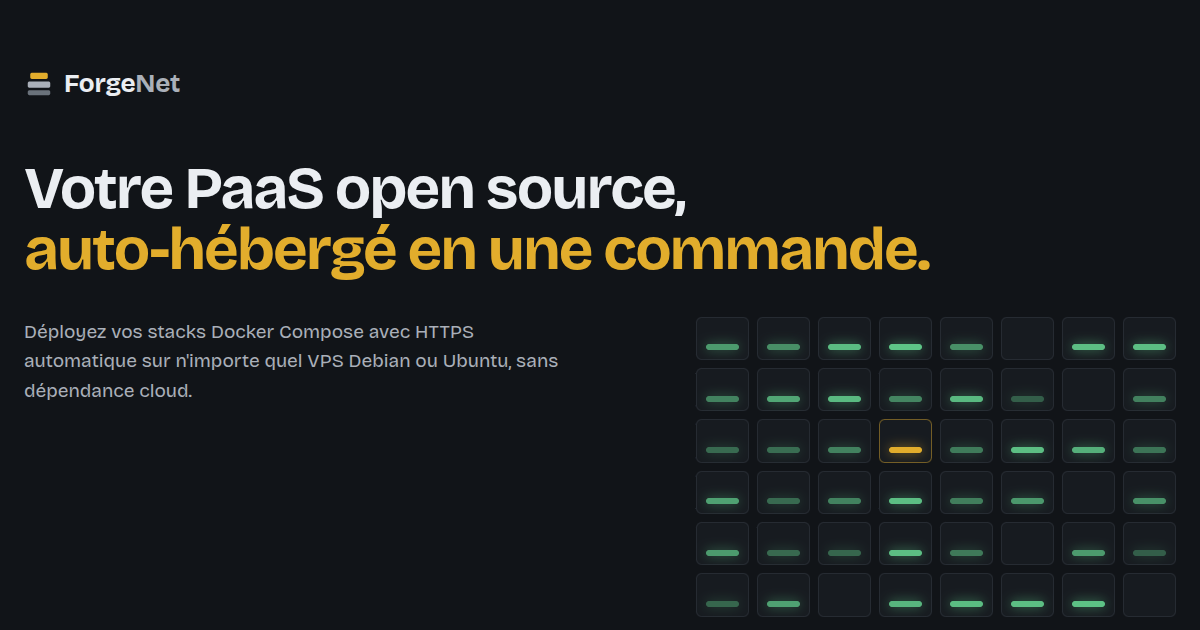
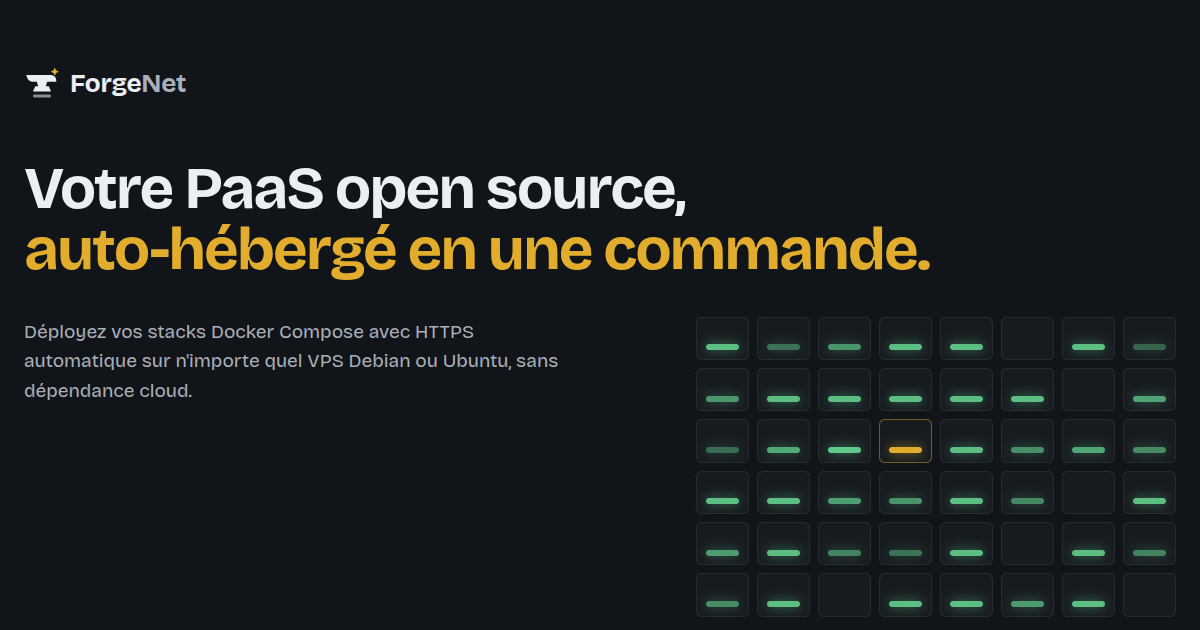
docs(site): l'enclume dans la vitrine et en tête des README
En-tête, icônes et image de partage de la vitrine avec le nouveau logo ;
symbole en tête des README, en version claire ou sombre selon le thème
de GitHub.

diff --git a/site/index.html b/site/index.html
@@ -7,7 +7,8 @@
 <meta name="description" content="ForgeNet est un PaaS open source et auto-hébergé : déployez vos applications Docker Compose, publiez-les en HTTPS, surveillez votre serveur et mettez-le à jour en un clic.">
 <link rel="canonical" href="https://forgenet.lucidforgeafrica.com/">
 <link rel="icon" href="favicon.svg" type="image/svg+xml">
-<meta name="theme-color" content="#0b0f17">
+<link rel="apple-touch-icon" href="apple-touch-icon.png">
+<meta name="theme-color" content="#090c11">
 <meta property="og:type" content="website">
 <meta property="og:locale" content="fr_FR">
 <meta property="og:site_name" content="ForgeNet">
@@ -210,7 +211,7 @@ footer a { text-decoration: none; } footer a:hover { color: var(--iron-100); }
 <header class="nav">
   <div class="wrap">
     <a class="mark" href="#titre" aria-label="ForgeNet, haut de page">
-      <svg viewBox="0 0 24 24" width="22" height="22" aria-hidden="true"><rect x="5" y="3" width="14" height="5" rx="1.5" fill="oklch(0.78 0.15 85)"/><rect x="3" y="10" width="18" height="5" rx="1.5" fill="oklch(0.76 0.014 255)"/><rect x="3" y="17" width="18" height="4" rx="1.5" fill="oklch(0.55 0.018 255)"/></svg>
+      <svg viewBox="0 0 48 48" width="26" height="26" aria-hidden="true"><path d="M3 12h33a7 7 0 0 1 7 7v2H31l-2 6h4l3 7H12l3-7h4l-2-6h-6c-4 0-6.5-3-8-9z" fill="var(--iron-100)"/><rect x="12" y="38" width="24" height="4" rx="2" fill="var(--iron-100)" opacity=".55"/><path d="M41 2l1.7 3.8L46.5 7.5l-3.8 1.7L41 13l-1.7-3.8L35.5 7.5l3.8-1.7z" fill="var(--gold-400)"/></svg>
       <b>Forge<span>Net</span></b>
     </a>
     <nav aria-label="Navigation principale">

diff --git a/README.md b/README.md
@@ -1,5 +1,10 @@
 <div align="center">
 
+<picture>
+  <source media="(prefers-color-scheme: dark)" srcset="docs/media/logo/forgenet-symbole-fond-sombre.svg">
+  <img src="docs/media/logo/forgenet-symbole-fond-clair.svg" width="88" height="88" alt="">
+</picture>
+
 # ForgeNet
 
 **Le cloud souverain, self-hosted, qui ne quitte jamais vos serveurs.**

diff --git a/README.en.md b/README.en.md
@@ -1,5 +1,10 @@
 <div align="center">
 
+<picture>
+  <source media="(prefers-color-scheme: dark)" srcset="docs/media/logo/forgenet-symbole-fond-sombre.svg">
+  <img src="docs/media/logo/forgenet-symbole-fond-clair.svg" width="88" height="88" alt="">
+</picture>
+
 # ForgeNet
 
 **The sovereign, self-hosted cloud that never leaves your servers.**
